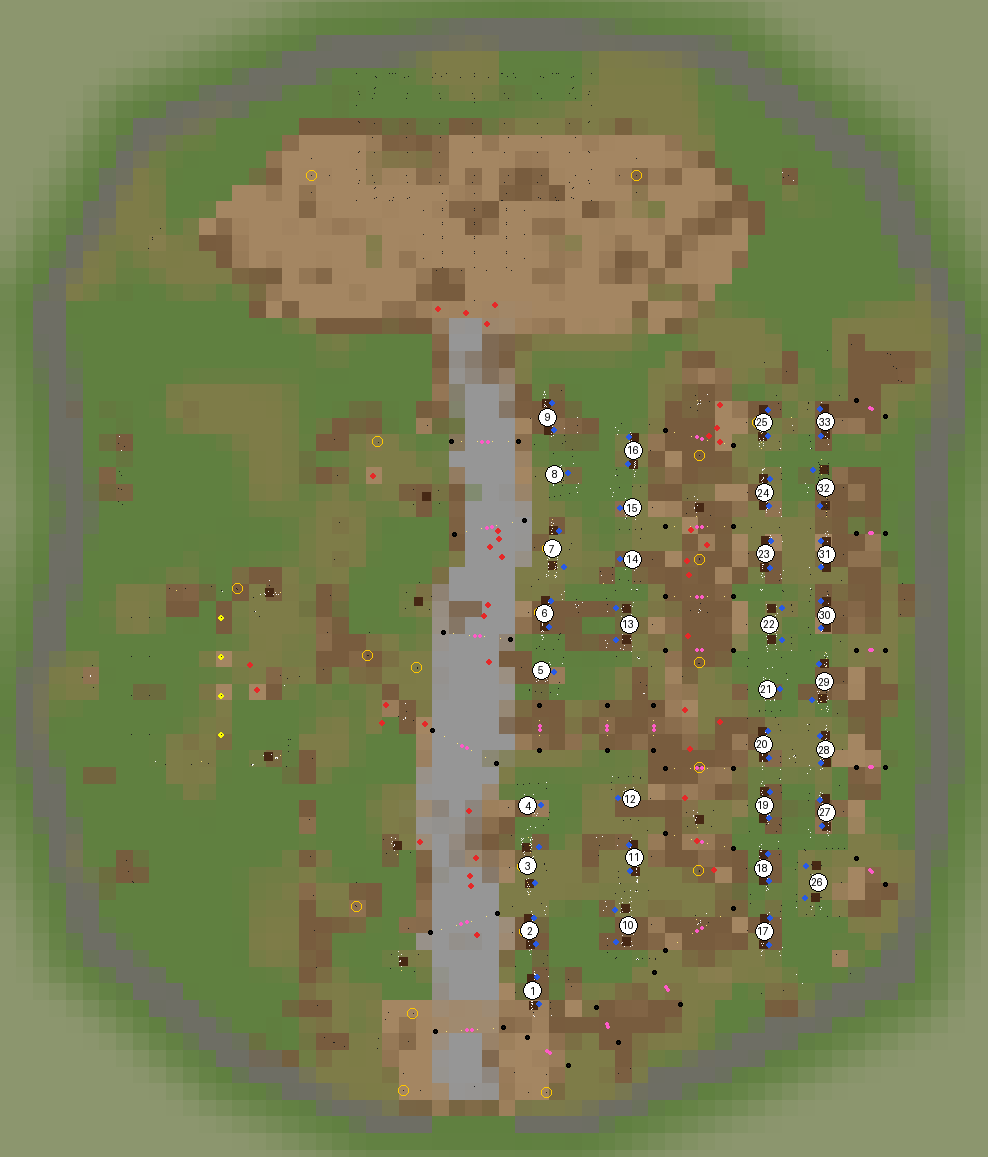
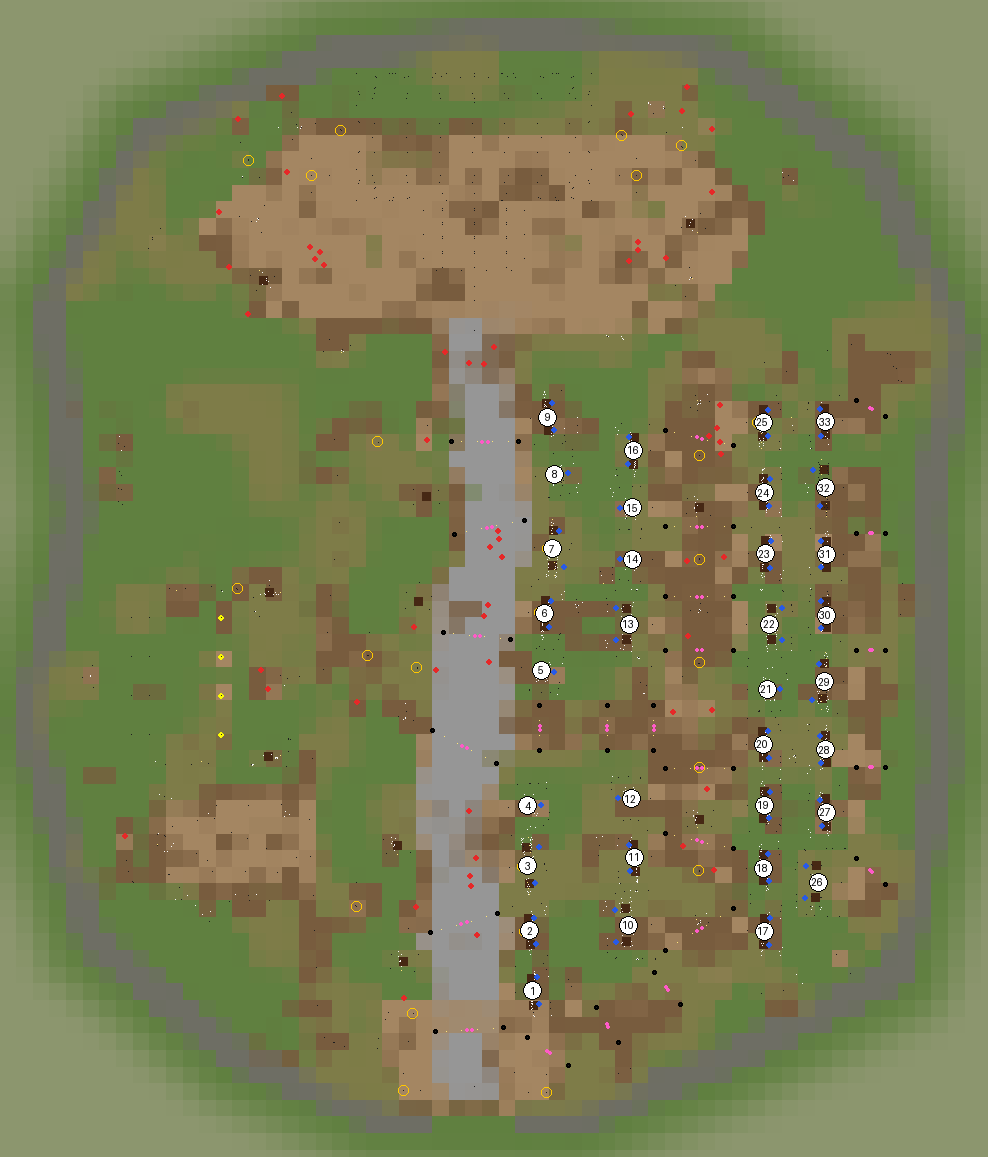
feat: stage crowd area and stable corner
Performance square: an open Dance zone in front of the stage and beside its steps
(kept clear, worn ground), a Watching U round it with watchers facing the stage,
and a social edge of ten informal clusters (tables, hay bales, benches, fires,
barrel tables) plus two lit braziers, placed with a new per-group keep-out
exemption so the avenue route and sightline stay clear.

Stable corner in the south of the west field: a Whiterun-fence horse pen with a
gate toward the fair, lean-to tack shelter, feed store, hitching rail and tack
stand, with a Stables zone marker for horses later.

diff --git a/src/SkyrimFair.Generator/FairCrowds.cs b/src/SkyrimFair.Generator/FairCrowds.cs
@@ -70,7 +70,7 @@ internal static class FairCrowds
         for (var gi = 0; gi < config.Groups.Count; gi++)
         {
             var group = config.Groups[gi];
-            var focus = new List<(float X, float Y, float Facing)>();
+            var focus = new List<(float X, float Y, float Facing, float Inner)>();
             if (group.Theme.Length > 0)
             {
                 // In front of every stall of the theme, facing its counter.
@@ -78,25 +78,26 @@ internal static class FairCrowds
                 {
                     var (fx, fy) = (MathF.Sin(stall.Yaw * Deg), MathF.Cos(stall.Yaw * Deg));
                     var reach = stall.Depth / 2f + group.FrontOffset;
-                    focus.Add((stall.X + fx * reach, stall.Y + fy * reach, stall.Yaw + 180f));
+                    focus.Add((stall.X + fx * reach, stall.Y + fy * reach, stall.Yaw + 180f, 0f));
                 }
             }
             else if (group.Near.Length > 0)
             {
                 // Round each dressing group of the module, seen from all sides.
+                // Measured from the group's edge, not its middle, so people stand round it.
                 foreach (var f in blocked.Where(b => b.Kind == group.Near))
                 {
-                    focus.Add((f.X, f.Y, f.Yaw));
+                    focus.Add((f.X, f.Y, f.Yaw, MathF.Max(f.HalfW, f.HalfD)));
                 }
             }
             else if (group.At.Length >= 2)
             {
-                focus.Add((group.At[0], group.At[1], group.At.Length > 2 ? group.At[2] : 0f));
+                focus.Add((group.At[0], group.At[1], group.At.Length > 2 ? group.At[2] : 0f, 0f));
             }
 
             var placedHere = 0;
             var fi = 0;
-            foreach (var (cx, cy, facing) in focus)
+            foreach (var (cx, cy, facing, inner) in focus)
             {
                 fi++;
                 if (FairHash.Hash3(gi * 31 + fi, 5, 41) >= group.Chance)
@@ -114,7 +115,7 @@ internal static class FairCrowds
                         var seed = gi * 1000 + fi * 97 + k * 17 + attempt;
                         var t = count == 1 ? 0.5f : (k + 0.5f + FairHash.Signed(seed, 1, 40) * 0.35f) / count;
                         var angle = (facing + 180f + (t - 0.5f) * 2f * group.Arc) * Deg;
-                        var r = group.Radius * (0.45f + 0.55f * FairHash.Hash3(seed, 2, 40));
+                        var r = inner + group.Radius * (0.45f + 0.55f * FairHash.Hash3(seed, 2, 40));
                         var (x, y) = (cx + MathF.Sin(angle) * r, cy + MathF.Cos(angle) * r);
                         if (blocked.Any(b => b.Contains(x, y, 25f)) || stood.Any(s => (s.X - x) * (s.X - x) + (s.Y - y) * (s.Y - y) < 55f * 55f))
                         {

diff --git a/src/SkyrimFair.Generator/FairMarket.cs b/src/SkyrimFair.Generator/FairMarket.cs
@@ -42,6 +42,11 @@ internal static class FairMarket
             .Concat(market.KeepOut.Select(a => a.Polygon.Select(p => (p[0], p[1])).ToArray()))
             .Concat(extraKeepOut)
             .ToList();
+        var keepOutNames = world.Zones.Where(z => market.KeepOutZones.Contains(z.Name)).Select(z => z.Name)
+            .Concat(market.KeepOut.Select(a => a.Name))
+            .Concat(extraKeepOut.Select(_ => "tower"))
+            .ToList();
+        IReadOnlyCollection<string> exempt = Array.Empty<string>();
 
         var placed = new List<Placed>();
         var frontages = new List<Placed>();
@@ -70,7 +75,7 @@ internal static class FairMarket
                     if (outside(px, py) > -(wallMargin ?? market.WallMargin)) return $"the wall at ({px:0}, {py:0})";
                     for (var k = 0; k < keepOut.Count; k++)
                     {
-                        if (FairGeometry.Inside(keepOut[k], px, py)) return $"keep-out area {k} at ({px:0}, {py:0})";
+                        if (!exempt.Contains(keepOutNames[k]) && FairGeometry.Inside(keepOut[k], px, py)) return $"keep-out area {keepOutNames[k]} at ({px:0}, {py:0})";
                     }
                     foreach (var lane in lanes)
                     {
@@ -529,6 +534,7 @@ internal static class FairMarket
             var d = market.Dressing[di];
             if (d.Module.Length > 0)
             {
+                exempt = d.ExemptKeepOut;
                 var group = modules[d.Module];
                 var (gx, gy) = (d.X, d.Y);
                 var why = WhyNot(group, gx, gy, d.Yaw, wallMargin: 60f, keepFrontages: true);
@@ -556,6 +562,8 @@ internal static class FairMarket
                 {
                     dressingRefusals[$"group {d.Module} at ({d.X:0}, {d.Y:0}): {why.Split(" at ")[0]}"] = 1;
                 }
+
+                exempt = Array.Empty<string>();
 
                 continue;
             }

diff --git a/src/SkyrimFair.Generator/FairConfig.cs b/src/SkyrimFair.Generator/FairConfig.cs
@@ -1966,6 +1966,12 @@ internal sealed record MarketDressing
     /// <summary>For a module: how far from its point to search for a spot that fits.</summary>
     public float SearchRadius { get; init; }
 
+    /// <summary>
+    /// Keep-out zones this group may stand in (the performance square's social edge sits in
+    /// the Crowd zone, which keeps stalls out); every other keep-out still applies.
+    /// </summary>
+    public List<string> ExemptKeepOut { get; init; } = new();
+
     public string Piece { get; init; } = string.Empty;
 
     public string Name { get; init; } = string.Empty;

diff --git a/docs/AUDIT.md b/docs/AUDIT.md
@@ -2,7 +2,101 @@
 
 This is the current verified state of Skyrim Fair and Barry's local deployment. Git history holds older reports; this file is a complete current snapshot.
 
-## Current pass: archery touch-ups (2026-09-23)
+## Current pass: stage crowd area and stable corner (2026-09-23)
+
+Barry's brief: "block out and dress the stage crowd area" (a dance area, a standing /
+watching area, and a seating / social edge), and "the horse pens / stable corner" on the
+west, support side. It stays an environment pass: no navmesh, inventories, band systems,
+quests or MCM. The market and the approved layout are unchanged.
+
+Stage geometry for reference: the deck is x 1173-2923, y 5088-6000, facing south; its steps
+come down to a foot at y 4538 (x 1676-2420) and are walled; the avenue arrives at
+(2048, 4308).
+
+### A. Dance area
+
+- New zone **`Dance`** (marker `SkyrimFairWorldDanceMarker`, at (2048, 4400)). It runs from
+  y 4150 up to the deck, flanking the steps, 1,600 to 1,750 wide.
+- It is a **market keep-out** (`DanceFloor`, plus `StageFront` over the deck and steps), so
+  no dressing, seating or visitors can land on it. Read back: nothing on it but the stage's
+  own steps and skirt.
+- It is painted as **worn** ground (`ground.wornZones`), trodden dirt where the dancing
+  will be.
+- The old "stage approach" visitor group, which stood here, was removed. The floor is left
+  open for dancers later.
+
+### B. Standing / watching area
+
+- New zone **`Watching`** (marker `SkyrimFairWorldWatchingMarker`, at (2048, 4060)). It is
+  a U round the dance floor: a band across the south (y 3990-4150) and the two flanks
+  (x 720-1173 and 2923-3380, up to y 5300).
+- Its three parts are keep-outs (`WatchingSouth`, `WatchingWest`, `WatchingEast`), so the
+  standing space stays readable. Only the existing light towers stand in the flanks.
+- 11 watchers face the stage: **4 from the south, 4 from the west, 3 from the east.**
+
+### C. Seating / social edge
+
+Ten informal clusters round the outer edge of the square, asymmetric (more on the field
+side). Each is placed by the collision-checked fitter, exempt only from the Crowd zone's
+keep-out (new `dressing.exemptKeepOut`):
+
+| Cluster | Pieces | Where |
+| --- | --- | --- |
+| `social_table` ×2 | rough table, bench, stool, crate for a seat, tankards, bread, cheese, jug, lantern | west (430, 4450); east (3720, 4880) |
+| `social_hay` ×2 | three hay bales dragged round a crate, tankards, bread, basket | west (360, 4860); north-west corner (700, 5520) |
+| `social_benches` ×2 | an L of two benches, stool, barrel table with tankards and a lantern | south-west (1000, 4020); east (3650, 4450) |
+| `social_fire` ×2 | small campfire (**real light**), log seat, hay bale, stool with a tankard, firewood | west flank (520, 5250); east flank (3560, 5320) |
+| `social_barrels` ×2 | two standing barrel tables with tankards, a drinking horn, mead | south-east (3130, 4000); north-east corner (3450, 5550) |
+| `brazier_lit` ×2 | the fair's lit brazier (**real light**) | the square's back corners, beside the stage (900, 5600) and (3180, 5560) |
+
+- 12 visitors round the clusters: 4 at the tables, 3 at the fires, 3 at the barrels, 2 on
+  the hay.
+- **The route from the avenue to the stage stays clear.** The avenue's corridor and the
+  gate-to-stage sightline band are still keep-outs; only one festival pole stands at the
+  corridor edge.
+
+### Horse pens / stable corner
+
+In the empty south of the west field, between the archery (y 700 up) and the gate, clear
+of the avenue's wattle fence (x about 870) and the west wall. It is a new zone,
+**`Stables`** (marker `SkyrimFairWorldStablesMarker`, at (300, 150), for horses later),
+with worn ground.
+
+| Piece | Contents | Where |
+| --- | --- | --- |
+| `horse_pen` | 768 × 512 pen of the **vanilla Whiterun farm fence** (`WRFenceStr01`, 9 rails on Whiterun stables' 256 grid), **a gate gap on the east side toward the fair**; hay scatter and mound, a hay bale, a water barrel with buckets (the watering corner; vanilla has no trough), a feed sack | centred (300, 150); interior left open for horses |
+| `stable_shelter` | `StockadeLeanTo01` lean-to, stacked hay, feed sacks, a crate with leather strips, a bear pelt on a long crate (saddle blanket), a **pitchfork** (new prop) and a broom leant on it, a lantern | west of the pen |
+| `feed_store` | stacked hay bales, sacks, a barrel | south-west |
+| `hitching_rail` | three vanilla hitch posts in a row, a bucket, hay, a sack | south of the pen, on the gate side, where arrivals tie up |
+| `stable_tack` | a saw horse carrying a pelt (tack stand), leather strips, a bucket, a stool | south |
+| `micro_storage` | crate, sack, basket | north-west |
+
+One stable hand stands by the shelter. The corner is modest: about 1,300 × 900 including
+its support pieces.
+
+**Numbers**: 86 dressing groups (from 68), 1,728 pieces, 57 visitors (59 keepers, 4
+archers: 120 actors), 22 real lights. One new prop (`Pitchfork`, 174 in all).
+
+**Verification**:
+- Generator run twice: identical SHA256 `ea911c81e988c234...`. **Deployed byte-identical**,
+  with the pitchfork.
+- Read back from the ESP: dance floor clear of dressing and visitors; watching areas hold
+  only watchers and the existing towers; no NPC inside the stage walls; avenue route clear.
+- Renders in `docs/images/crowd_and_stables.png`: the pen closes with its gate gap, the
+  shelter, hay and hitch posts round it; the square open in the middle.
+
+**Visual review needed**:
+- The **fence**: rails should meet at the corners (they overlap about 14 at each end by
+  design), and the gate gap should read as a gate.
+- The lean-to, pitchfork and saw horse sit at their measured heights; check nothing
+  floats.
+- Is the **dance floor** broad enough, and does the square feel open in the middle and
+  social round the edges? The social edge is uneven on purpose; say if a side feels bare
+  or crowded.
+- **Performance** with 120 actors and 22 lights near the stage at night. Visitor groups
+  are one number each in `fairWorld.crowds`.
+
+## Previous pass: archery touch-ups (2026-09-23)
 
 Barry: "you just nailed it", archers working, and two small things at the archery booth:
 - **Fletcher sign hanging off one post**: every vanilla shop sign is modelled across its

diff --git a/docs/CODEX_HANDOVER.md b/docs/CODEX_HANDOVER.md
@@ -561,6 +561,9 @@ Project-owned mesh work is code-first and reproducible.
 - `WRMarketStand01`'s table is 210 deep, too deep to reach a keeper across; `grand_double` uses two `WRMarketStand02` instead. `HayBale01`'s origin is its base: z 0. Keep `WRMarketDisplayShelf*` off the ground in front of counters (they read as empty containers)
 - every stall has a keep-clear frontage (`market.frontageDepth`) that later dressing, visitors and poles respect; kit ground spots belong at stall ends and behind, never in front
 - one trade per stall: lane `themes` run in one sequence across both sides; each theme has its own kit in `market.stallKits`, and its keeper name in `vendors.themeNames` (one NPC record per keeper). The build writes `docs/STALLS.md` (`fairWorld.stallDirectory`); `docs/images/stalls_map.png` is drawn from the plugin
+- the performance square has three sub-zones: `Dance` (keep-outs `DanceFloor` + `StageFront`, worn ground, left open for dancers), `Watching` (keep-outs `WatchingSouth/West/East`, watcher groups face the stage) and a social edge of `social_*` clusters placed with `dressing.exemptKeepOut: ["Crowd"]` (only that keep-out is waived; the avenue corridor and sightline band still apply)
+- the stable corner is the `Stables` zone (marker for horses later) in the south of the west field: a `horse_pen` of vanilla `WRFenceStr01` rails laid on Whiterun's 256 grid (origin 15 off the rail's middle, +53 up) with a gate gap facing the fair, a lean-to shelter, feed store, hitching rail and tack stand
+- crowd groups `near` a dressing module now spread from the module's edge, not its middle
 - invisible walls are `fairWorld.collisionWalls` segments, built as vanilla `CollisionMarker` box primitives (half-extents, default layer)
 - the cobbles use the Whiterun Mossy Wet Stonefloor textures copied to `textures\SkyrimFair\Ground\Cobble01*.dds` (git-ignored; restore from `external/` before deploying)
 - `fairWorld.overhead` swags festival lines across lanes (poles inside the corridor edge, two mirrored `SRopefestivalLine01` halves, lanterns along the curve); `fairWorld.crowds` places visitor groups by theme, point or dressing module; `fairWorld.ground` paints the worn ground after everything is placed (fair-owned LTEX/TXST copies with parallax height slots, cobbled avenue), keeping LAND FormIDs by allocating LAND with the cells
